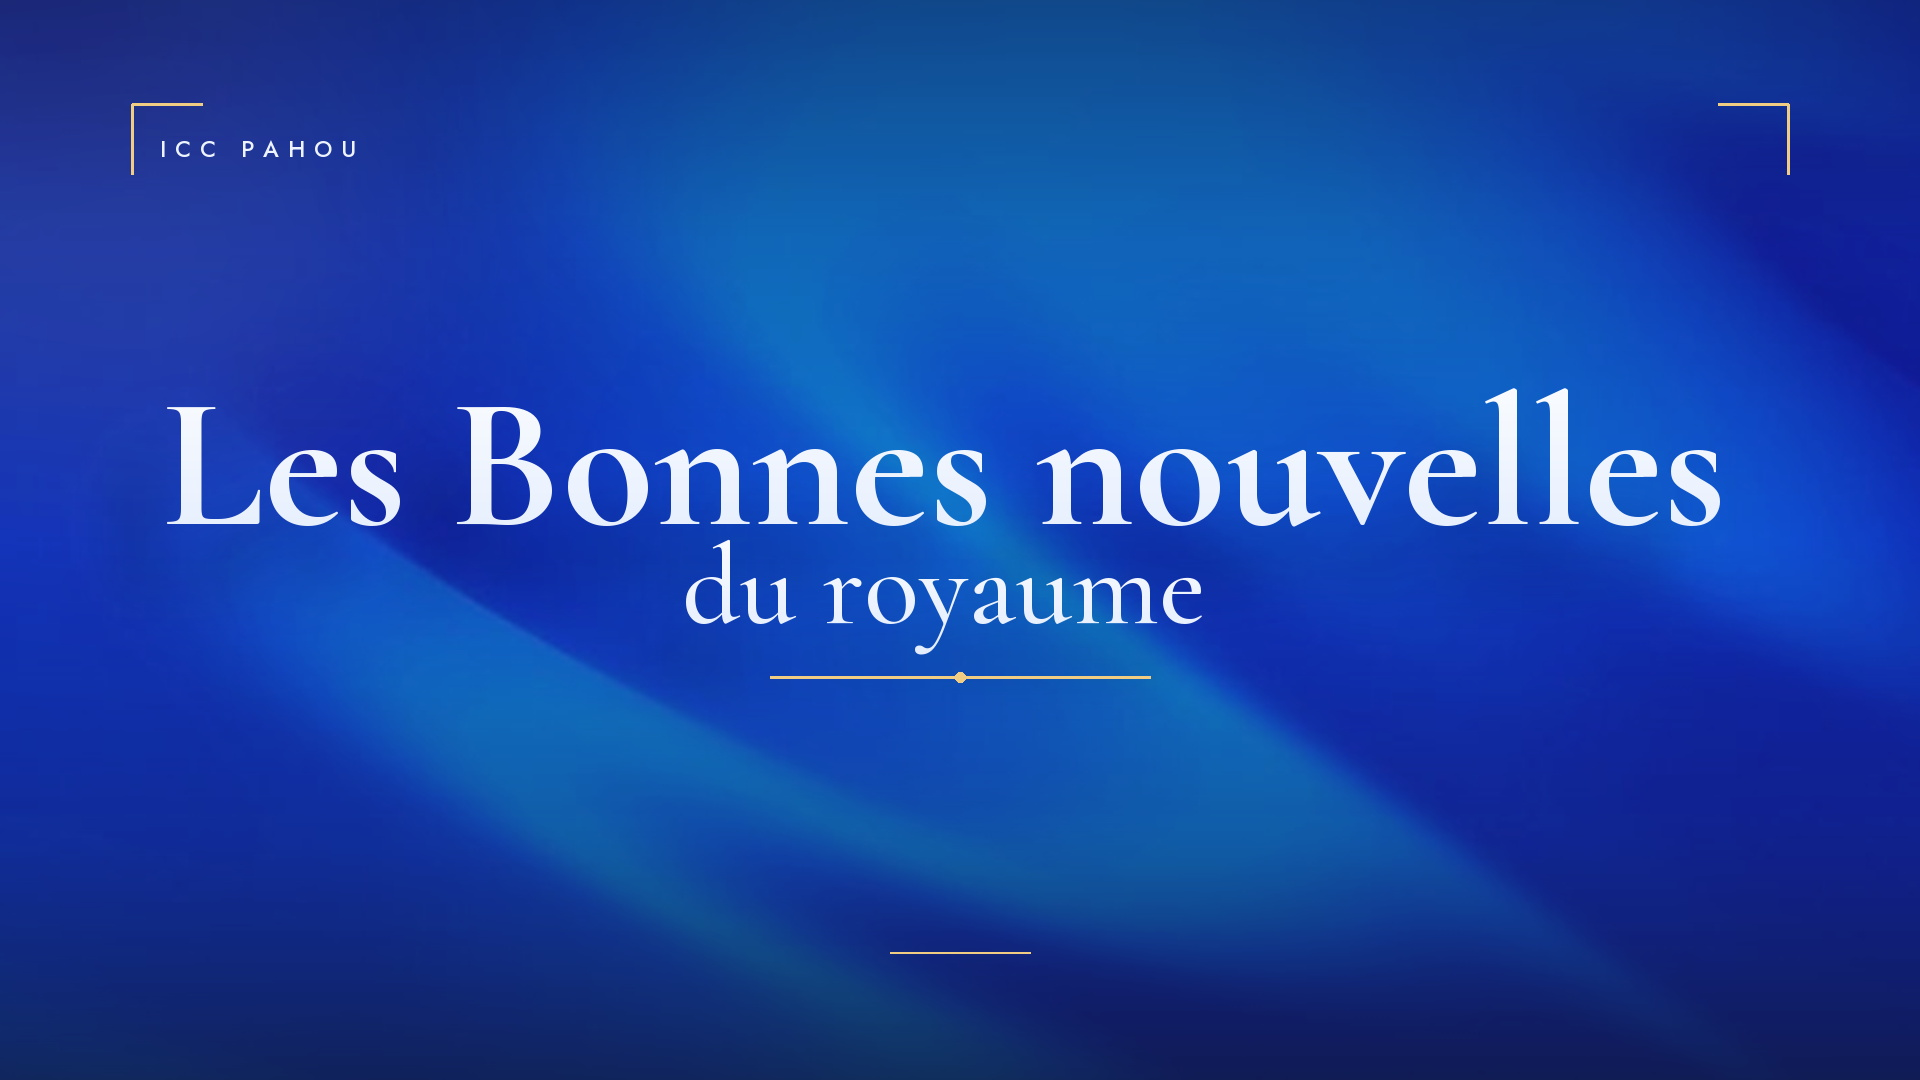
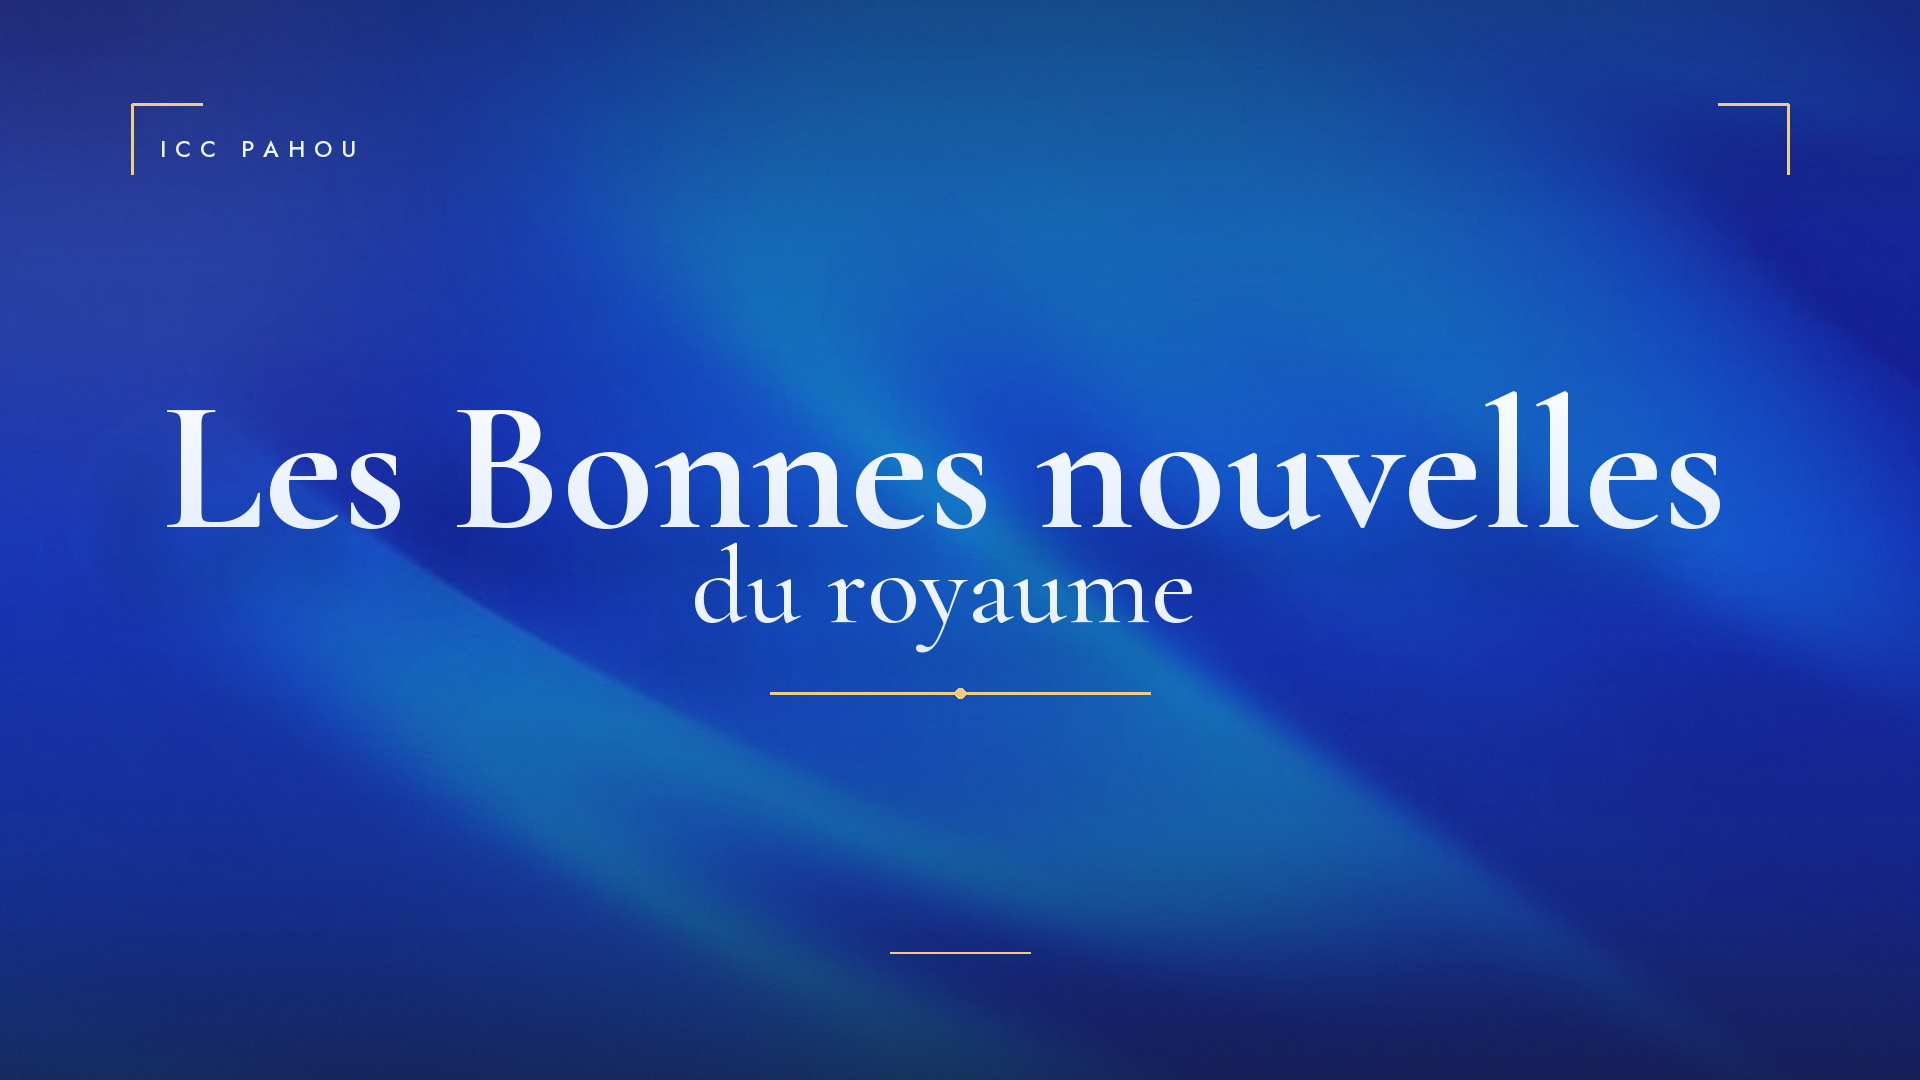
feat(livrable): paysage 1920x1080 en version de reference — titre + grand, filet degage, grain fin

diff --git a/scripts/render_bonnes_nouvelles_f13.py b/scripts/render_bonnes_nouvelles_f13.py
@@ -30,7 +30,7 @@ SIZES = {
 # proportion de la surface utile, seule la disposition des blocs change.
 LAYOUT = {"portrait": dict(ml=96, mt=96, big=172, small_ratio=0.70,
                            block_y=0.54, title_center=True),
-          "paysage": dict(ml=132, mt=104, big=196, small_ratio=0.60,
+          "paysage": dict(ml=132, mt=104, big=212, small_ratio=0.58,
                           block_y=0.50, title_center=True)}
 SERIF = "polices/cormorant-garamond-var.ttf"
 SANS = "polices/jost-var.ttf"
@@ -176,6 +176,11 @@ def main(out, fond=FOND, size="digital"):
     base.alpha_composite(radial(W, H, W * 0.5, H * 0.46, W * 0.72, (150, 200, 255), 26, 160))
     base.alpha_composite(radial(W, H, M + 40, 250, 230, OR, 26, 120))
 
+    # grain fin : le fond f13 est agrandi, un grain léger retrouve une matière de photo
+    noise = Image.effect_noise((W, H), 26).convert("L")
+    grain = Image.merge("RGBA", (noise, noise, noise, Image.new("L", (W, H), 12)))
+    base = Image.alpha_composite(base, grain)
+
     d = ImageDraw.Draw(base, "RGBA")
 
     # ---------- filet de cadre intérieur (structure, pas un ornement)
@@ -232,7 +237,7 @@ def main(out, fond=FOND, size="digital"):
             paste(base, drop(lay, 34 * k / 1.25, 88, (0, 10)), cx, y + 8, "center")
             paste(base, lay, cx, y, "center")
             y += int(m.getbbox()[3] - m.getbbox()[1]) + round(12 * k)
-        line_w, line_y = 190 * k, y + round(10 * k)
+        line_w, line_y = 190 * k, y + round(28 * k)   # le filet respire sous les jambages
 
     # filet or sous le titre
     d.line([(cx - line_w, line_y), (cx + line_w, line_y)], fill=OR + (235,), width=max(2, round(3 * k)))

diff --git a/livrables/2026-11-07-flyer-les-bonnes-nouvelles-du-royaume.md b/livrables/2026-11-07-flyer-les-bonnes-nouvelles-du-royaume.md
@@ -25,9 +25,13 @@
 - Même fond, même palette, même duo de polices, mêmes marges proportionnelles : **seule la
   disposition change**. Le fond n'est pas pivoté, il est **recadré** dans le 16:9 (fond abstrait,
   aucun sens naturel perdu — `specs/formats.md` §3bis).
-- Titre sur **deux lignes** (188 px / 113 px en 1920 × 1080), centré, filet or et équerres à la
-  même place relative que la version portrait.
+- Titre sur **deux lignes** (188 px / 109 px en 1920 × 1080), centré, filet or et équerres à la
+  même place relative que la version portrait ; le filet or est descendu pour ne pas toucher les
+  jambages de « royaume ».
+- **Grain fin** ajouté (bruit 26, opacité 12/255) : le fond f13 est un 734 × 402 agrandi à
+  1920 × 1080 ; le grain redonne une matière de photo sans salir l'image.
 - Aucune date, aucun texte ajouté : le pied reste un filet.
+- **Ordre de livraison** : 1920 × 1080 d'abord (demandé), A5 paysage ensuite.
 
 ## Écarts assumés
 
